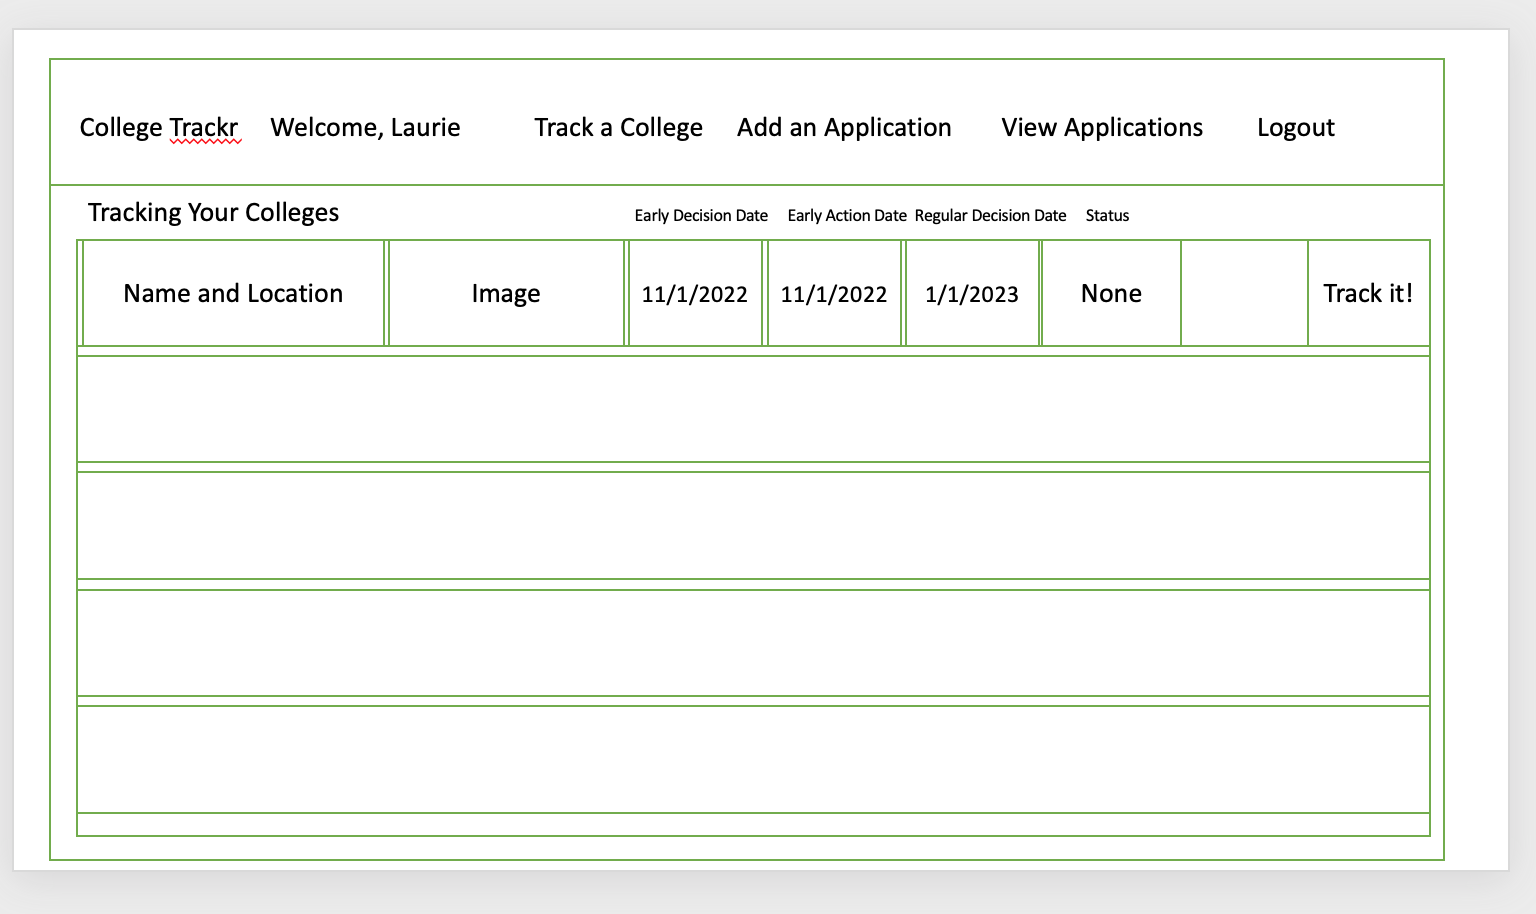
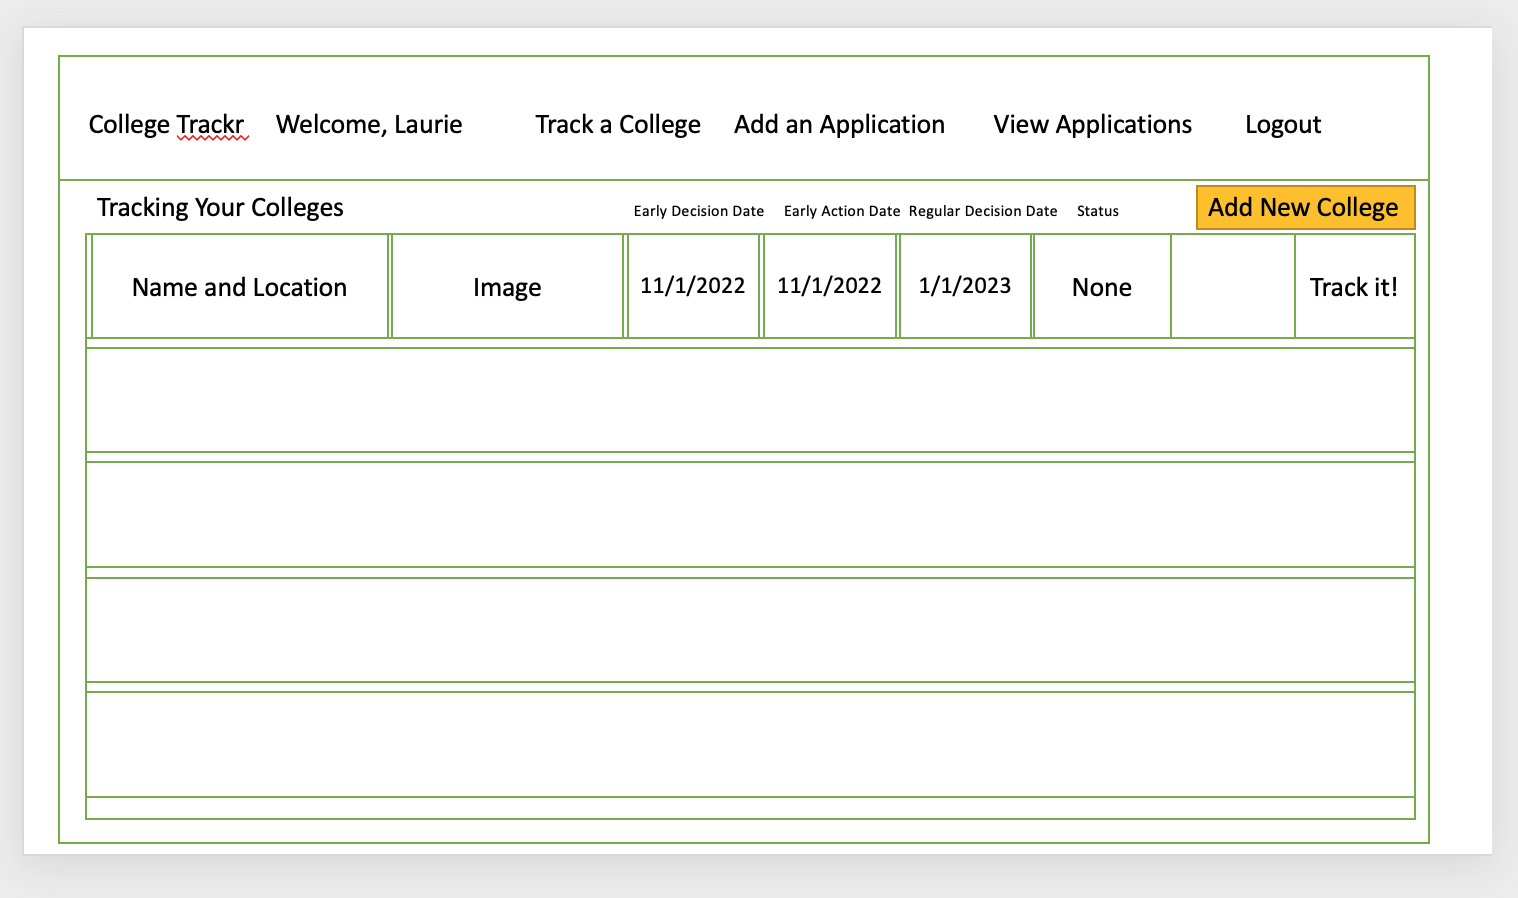
Added button for adding college, added tech used for README

diff --git a/README.md b/README.md
@@ -50,6 +50,16 @@ Parents and Students can save the colleges they've selected, track the college a
 - Add/Edit/Delete Applications
 - Add/Edit/Delete Tasks
 
+# Front End - Client
+- React
+- Javascript
+- Node
+- Axios
+
+# Back End - API
+- Django
+- Python
+- SQL (PostgreSQL)
 
 # Wire Frames
 
